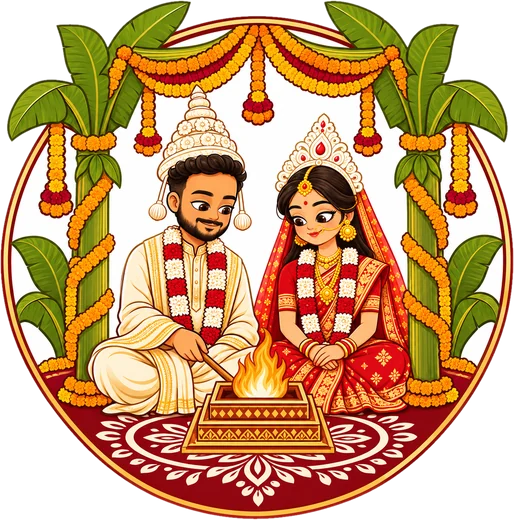
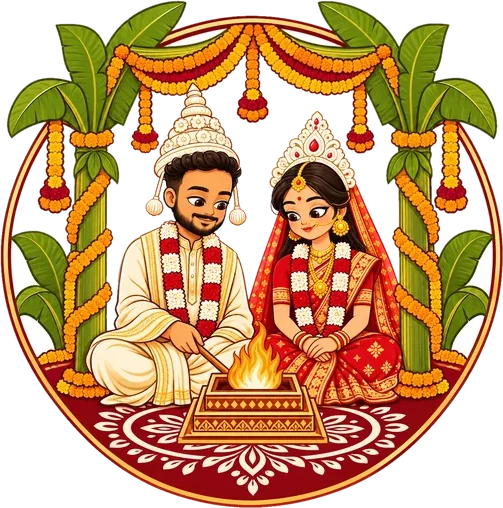
Ritual scenes: remove the white backdrop inside the frames
Claude-Session: https://claude.ai/code/session_01A7U3bhfqdo6UgM5ft2nzAm

diff --git a/index.html b/index.html
@@ -168,10 +168,10 @@
   <section class="rituals rv" aria-labelledby="ritualTitle">
     <h2 id="ritualTitle" class="section-title" data-i="ritualTitle">শুভ বিবাহের মুহূর্ত</h2>
     <div class="ritual-grid">
-      <figure class="ritual rv"><img src="img/art/shubhodrishti.webp" alt="" width="499" height="520" loading="lazy"><figcaption data-i="rShubho">শুভদৃষ্টি</figcaption></figure>
-      <figure class="ritual rv"><img src="img/art/malabadal.webp" alt="" width="506" height="520" loading="lazy"><figcaption data-i="rMala">মালাবদল</figcaption></figure>
-      <figure class="ritual rv"><img src="img/art/chhadnatala.webp" alt="" width="514" height="520" loading="lazy"><figcaption data-i="rYagna">সাত পাক ও যজ্ঞ</figcaption></figure>
-      <figure class="ritual rv"><img src="img/art/sindoor.webp" alt="" width="500" height="520" loading="lazy"><figcaption data-i="rSindoor">সিঁদুর দান</figcaption></figure>
+      <figure class="ritual rv"><img src="img/art/shubhodrishti.webp" alt="" width="496" height="512" loading="lazy"><figcaption data-i="rShubho">শুভদৃষ্টি</figcaption></figure>
+      <figure class="ritual rv"><img src="img/art/malabadal.webp" alt="" width="498" height="509" loading="lazy"><figcaption data-i="rMala">মালাবদল</figcaption></figure>
+      <figure class="ritual rv"><img src="img/art/chhadnatala.webp" alt="" width="503" height="508" loading="lazy"><figcaption data-i="rYagna">সাত পাক ও যজ্ঞ</figcaption></figure>
+      <figure class="ritual rv"><img src="img/art/sindoor.webp" alt="" width="498" height="514" loading="lazy"><figcaption data-i="rSindoor">সিঁদুর দান</figcaption></figure>
     </div>
   </section>
 
